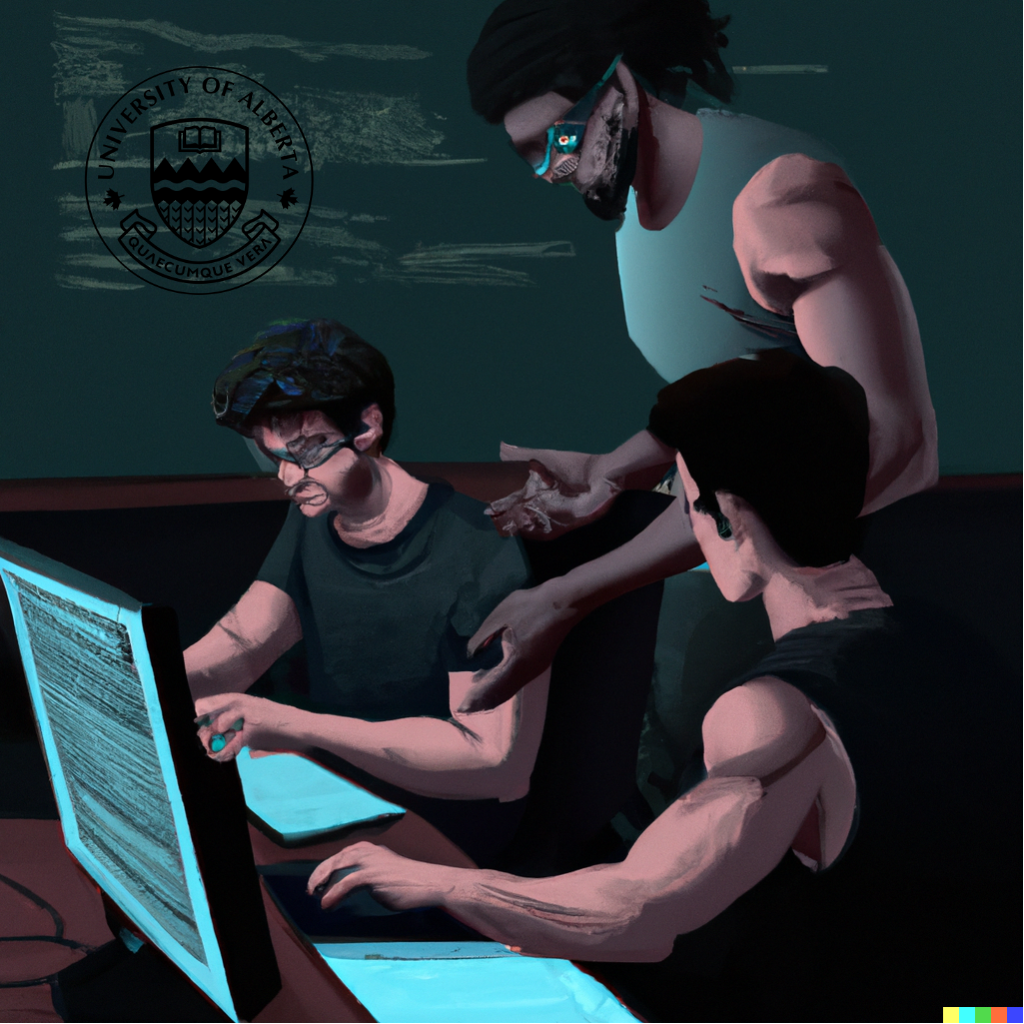
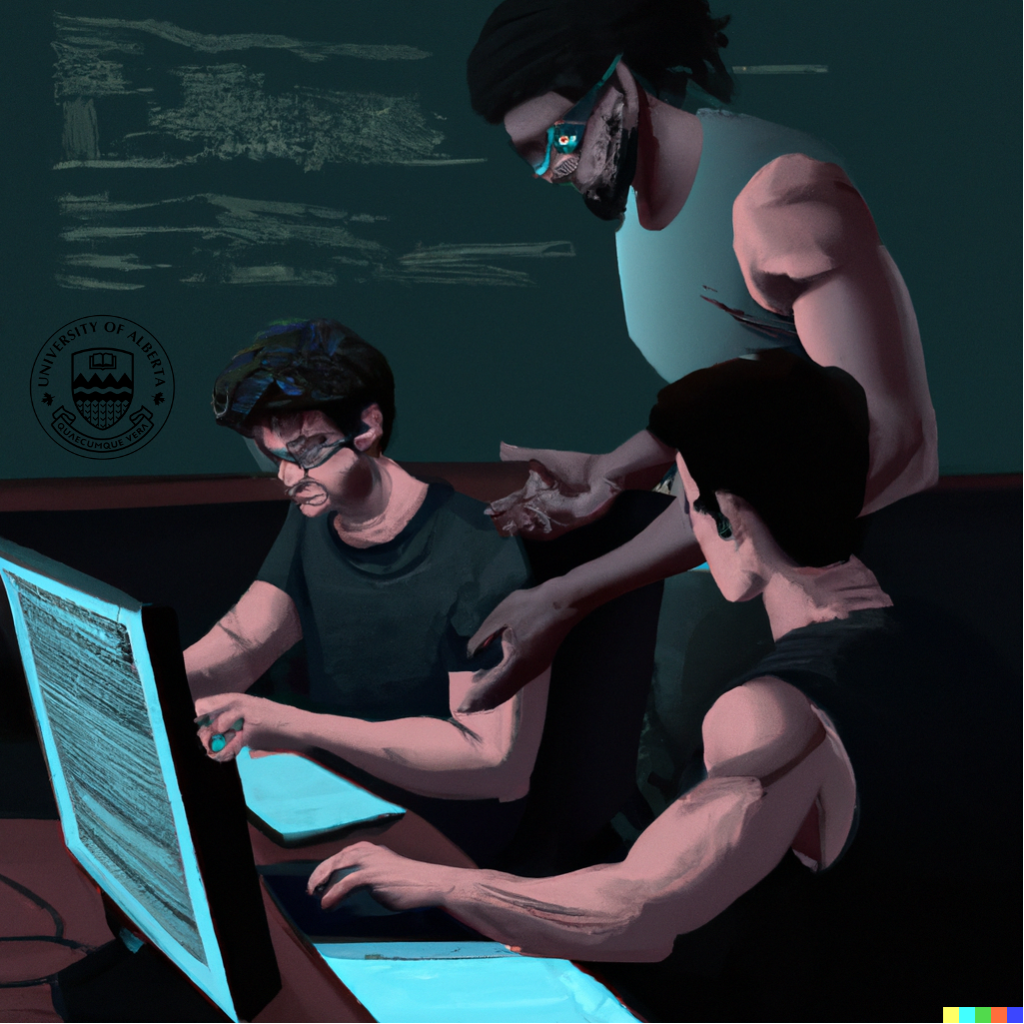
changed html

Changed region(s): [[0.0938, 0.0625, 0.3125, 0.2812], [0.0312, 0.3125, 0.1562, 0.4375]]

diff --git a/index.html b/index.html
@@ -13,7 +13,7 @@
       let content = {
         first_name: "Andy" /* <- write your first name here */,
         last_name: "Tran" /* <- write your last name here */,
-        position: "Software & A.I. Enthusiast" /* <- write your title here */,
+        position: "Web Dev Enthusiast" /* <- write your title here */,
         email: "anhquoctran006@gmail.com" /* <- write your email here */,
         allow_download_resume: true /* <- write "false" if you want them to email you to ask for your resume or "true" if you want them to download your resume */,
         resume_path:
@@ -118,7 +118,7 @@
           cards: [
             {
               name: "University of Alberta",
-              image: "img/ta3.png",
+              image: "img/ta.png",
               url: "",
               description: "Teaching Assistant",
               sub_description:
